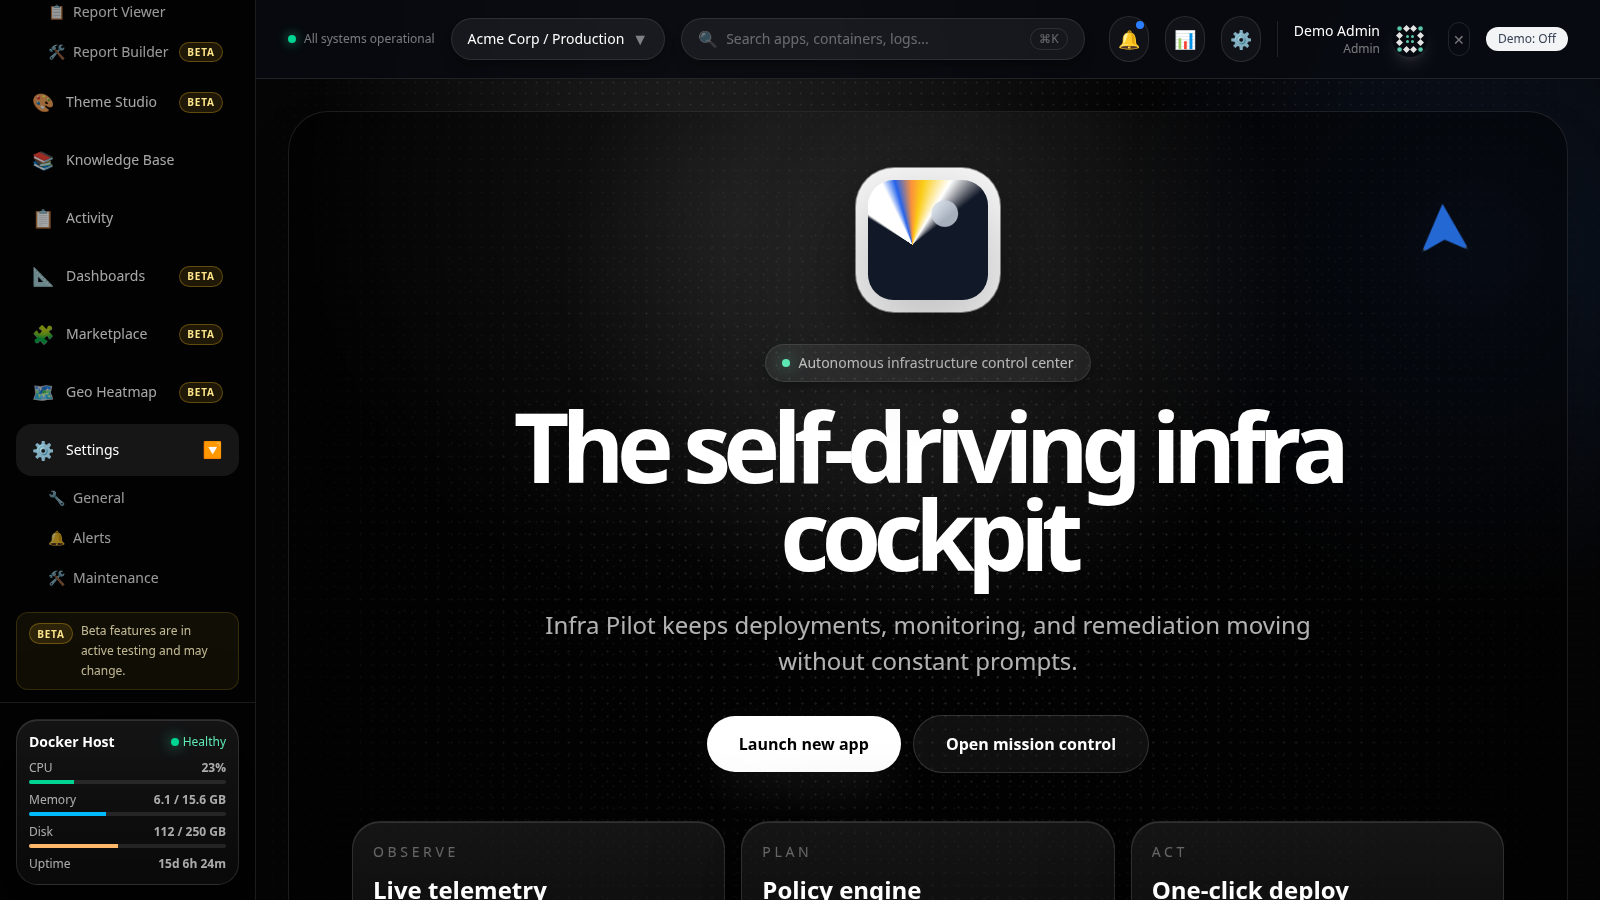
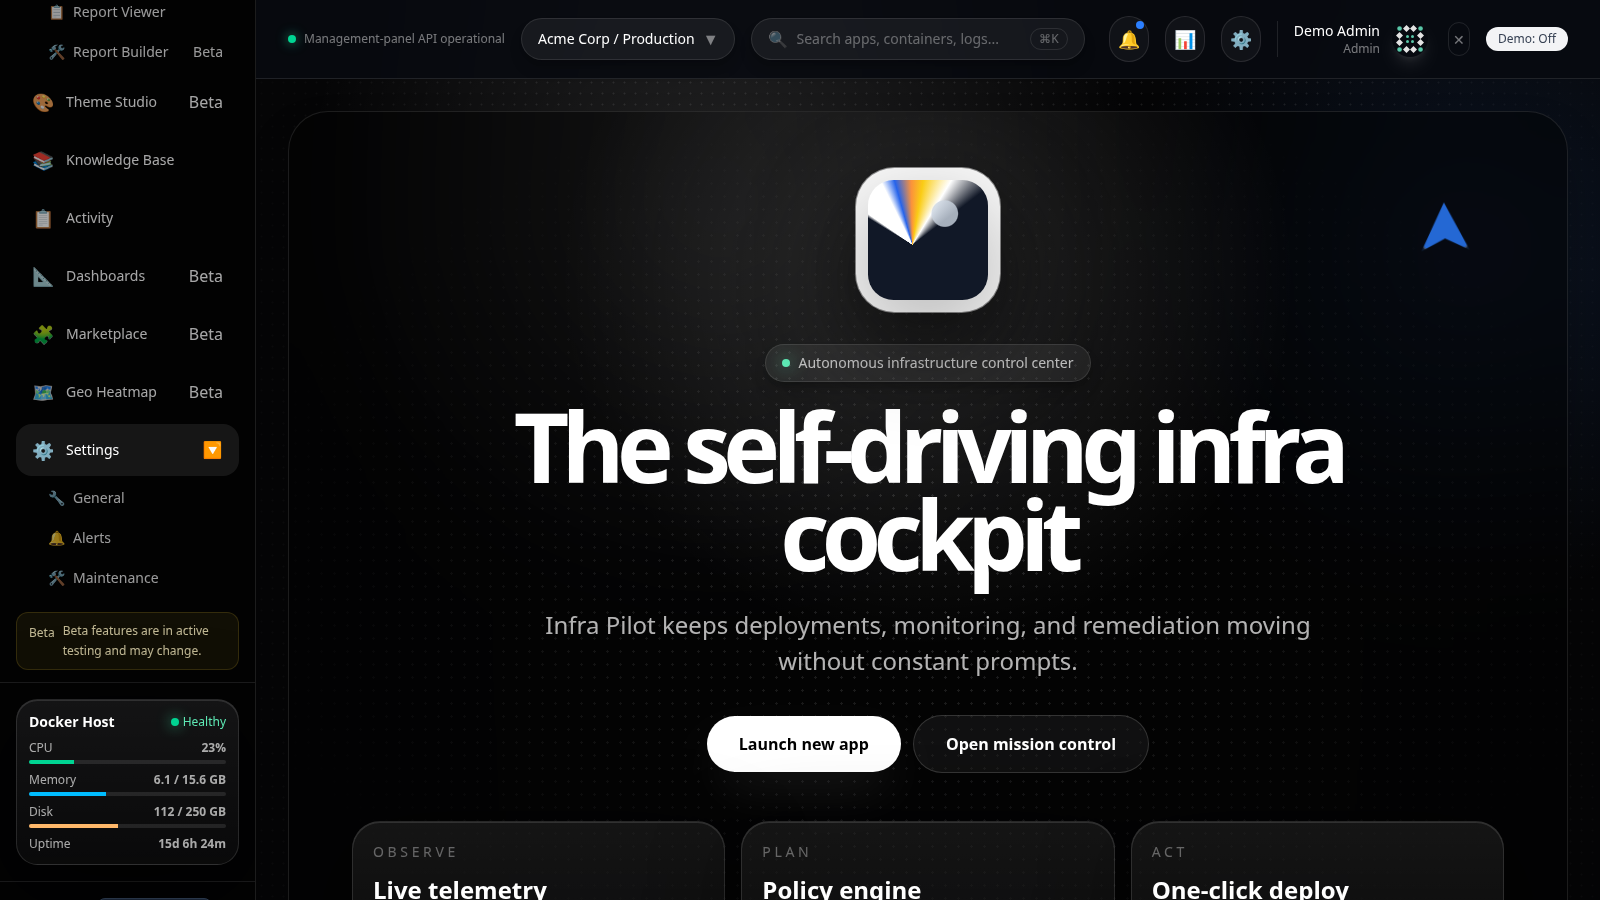
Feat/panel deployments stable (#437)
* feat(panel): add Deployments page and route

* feat(panel): graduate Deployments out of beta

* test(panel): cover deployments API contract

* docs(panel): document Deployments and capture plan

* docs(screenshots): regenerate captures incl. Deployments

* fix(panel): drop duplicate rateLimit import

* docs(panel): Document the deployment Supabase test helper

* fix(panel): use configured public URL for Git deployment webhooks

---------

diff --git a/services/management-panel/tests/integration/deployments.test.ts b/services/management-panel/tests/integration/deployments.test.ts
@@ -1,0 +1,130 @@
+import assert from 'node:assert/strict';
+import { after, before, beforeEach, describe, it } from 'node:test';
+import http from 'node:http';
+import { app, setSupabaseClientForTests } from '../../server/index.ts';
+import { makeSupabase } from '../helpers/supabase-mock.ts';
+import type { Db } from '../helpers/supabase-mock.ts';
+import { request } from '../helpers/http-client.ts';
+
+const USERS = {
+  token: { id: 'user-1', email: 'user1@example.test' },
+  'other-token': { id: 'user-2', email: 'user2@example.test' },
+};
+
+/**
+ * Create a Supabase test client with shared_config upserts for deployment storage.
+ * @param db - In-memory database mutated by upserts, matching rows by key.
+ * @returns Mock client authenticated with USERS and supporting shared_config upserts.
+ */
+function makeDeploySupabase(db: Db) {
+  const supabase: any = makeSupabase(db, USERS);
+  const origFrom = supabase.from.bind(supabase);
+  supabase.from = (table: string) => {
+    const qb: any = origFrom(table);
+    if (table === 'shared_config' && typeof qb.upsert !== 'function') {
+      qb.upsert = (row: Record<string, any>) => ({
+        then: (resolve: (v: any) => void, reject?: (r?: any) => void) => {
+          db.shared_config ??= [];
+          const idx = db.shared_config.findIndex((r) => r.key === row.key);
+          if (idx >= 0) db.shared_config[idx] = { ...db.shared_config[idx], ...row };
+          else db.shared_config.push({ ...row });
+          return Promise.resolve({ data: row, error: null }).then(resolve, reject);
+        },
+      });
+    }
+    return qb;
+  };
+  return supabase;
+}
+
+describe('deployments API contract', () => {
+  let server: http.Server;
+  let db: Db;
+
+  before(async () => {
+    server = app.listen(0);
+  });
+
+  after(async () => {
+    await new Promise<void>((resolve) => server.close(() => resolve()));
+  });
+
+  beforeEach(() => {
+    db = {
+      setup_config: [{ id: 'setup', initialized: true, mode: 'personal' }],
+      shared_config: [],
+      audit_log: [],
+    };
+    setSupabaseClientForTests(makeDeploySupabase(db));
+  });
+
+  it('requires auth to list deployments', async () => {
+    const response = await request(server, 'GET', '/api/deployments');
+    assert.equal(response.status, 401);
+  });
+
+  it('validates required fields on create', async () => {
+    for (const body of [{}, { name: 'only-name' }, { repoUrl: 'https://github.com/a/b.git' }]) {
+      const response = await request(server, 'POST', '/api/deployments', body, 'token');
+      assert.equal(response.status, 400, `should reject ${JSON.stringify(body)}`);
+    }
+  });
+
+  it('creates, lists, and isolates deployments by owner', async () => {
+    const created = await request(
+      server,
+      'POST',
+      '/api/deployments',
+      { name: 'web', repoUrl: 'https://github.com/acme/web.git', branch: 'main' },
+      'token',
+    );
+    assert.equal(created.status, 201);
+    assert.equal(created.body.name, 'web');
+    assert.equal(created.body.repo, 'acme/web');
+    assert.equal(created.body.enabled, true);
+    assert.ok(created.body.id);
+
+    const listed = await request(server, 'GET', '/api/deployments', undefined, 'token');
+    assert.equal(listed.status, 200);
+    assert.equal(listed.body.length, 1);
+
+    const other = await request(server, 'GET', '/api/deployments', undefined, 'other-token');
+    assert.equal(other.status, 200);
+    assert.deepEqual(other.body, []);
+  });
+
+  it('toggles, reads history, and deletes owned deployments', async () => {
+    const created = await request(
+      server,
+      'POST',
+      '/api/deployments',
+      { name: 'api', repoUrl: 'https://github.com/acme/api.git' },
+      'token',
+    );
+    const id = created.body.id as string;
+
+    const toggled = await request(server, 'PATCH', `/api/deployments/${id}/toggle`, {}, 'token');
+    assert.equal(toggled.status, 200);
+    assert.equal(toggled.body.enabled, false);
+
+    const history = await request(server, 'GET', `/api/deployments/${id}/history`, undefined, 'token');
+    assert.equal(history.status, 200);
+    assert.deepEqual(history.body, { history: [] });
+
+    const otherToggle = await request(server, 'PATCH', `/api/deployments/${id}/toggle`, {}, 'other-token');
+    assert.equal(otherToggle.status, 404);
+
+    const deleted = await request(server, 'DELETE', `/api/deployments/${id}`, undefined, 'token');
+    assert.equal(deleted.status, 200);
+
+    const listed = await request(server, 'GET', '/api/deployments', undefined, 'token');
+    assert.deepEqual(listed.body, []);
+  });
+
+  it('returns 404 for unknown deployment ids', async () => {
+    const history = await request(server, 'GET', '/api/deployments/missing/history', undefined, 'token');
+    assert.equal(history.status, 404);
+    const deleted = await request(server, 'DELETE', '/api/deployments/missing', undefined, 'token');
+    assert.equal(deleted.status, 404);
+  });
+});

diff --git a/services/management-panel/src/components/GitDeployManager.tsx b/services/management-panel/src/components/GitDeployManager.tsx
@@ -44,13 +44,43 @@ export const GitDeployManager = () => {
     setShowForm(false);
   };
 
+  const isValidRepoUrl = (url: string) => {
+    const trimmed = url.trim();
+    return (
+      trimmed.startsWith('https://') ||
+      trimmed.startsWith('http://') ||
+      trimmed.startsWith('git@')
+    ) && trimmed.includes('.') && trimmed.length >= 10;
+  };
+
+  const getWebhookUrl = () => {
+    return import.meta.env.VITE_PUBLIC_WEBHOOK_URL?.trim() || '';
+  };
+
+  const copyWebhookUrl = async () => {
+    const webhookUrl = getWebhookUrl();
+    if (!webhookUrl) return;
+    try {
+      await navigator.clipboard.writeText(webhookUrl);
+      toast.success('Webhook URL copied');
+    } catch {
+      toast.error('Copy failed — select the URL manually');
+    }
+  };
+
   const handleCreate = async () => {
-    if (!form.name || !form.repoUrl) {
+    const name = form.name.trim();
+    const repoUrl = form.repoUrl.trim();
+    if (!name || !repoUrl) {
       toast.error('Name and repository URL are required');
       return;
     }
+    if (!isValidRepoUrl(repoUrl)) {
+      toast.error('Repository URL must start with https://, http://, or git@');
+      return;
+    }
     try {
-      await apiClient.createDeployment(form);
+      await apiClient.createDeployment({ ...form, name, repoUrl });
       toast.success('Git deployment created');
       resetForm();
       loadDeployments();
@@ -193,6 +223,8 @@ export const GitDeployManager = () => {
                   <div className="flex items-center gap-2">
                     <button
                       onClick={(e) => { e.stopPropagation(); handleToggle(dep.id); }}
+                      aria-label={dep.enabled ? `Disable ${dep.name}` : `Enable ${dep.name}`}
+                      title={dep.enabled ? 'Disable auto-deploy' : 'Enable auto-deploy'}
                       className={`text-sm px-2 py-0.5 rounded-full cursor-pointer transition-colors ${
                         dep.enabled ? 'bg-green-500/20 text-green-400 hover:bg-green-500/30' : 'bg-slate-600/20 text-slate-400 hover:bg-slate-600/30'
                       }`}
@@ -212,6 +244,7 @@ export const GitDeployManager = () => {
                 <div className="flex items-center gap-2 ml-3" onClick={(e) => e.stopPropagation()}>
                   <button
                     onClick={() => handleDelete(dep.id)}
+                    aria-label={`Delete ${dep.name}`}
                     className="px-2 py-1 text-xs bg-red-600/20 text-red-400 hover:bg-red-600/40 rounded transition-colors"
                   >
                     Delete
@@ -235,9 +268,19 @@ export const GitDeployManager = () => {
             </button>
           </div>
           <div className="space-y-2 text-sm">
-            <div className="flex justify-between">
+            <div className="flex justify-between items-center gap-2">
               <span className="text-slate-400">Webhook URL:</span>
-              <span className="text-green-400 font-mono text-xs break-all ml-2">http://your-host:8500/webhook/gitops</span>
+              <span className="flex items-center gap-2 min-w-0">
+                <span className="text-green-400 font-mono text-xs break-all text-right">{getWebhookUrl() || 'Webhook URL not configured'}</span>
+                <button
+                  onClick={copyWebhookUrl}
+                  disabled={!getWebhookUrl()}
+                  aria-label="Copy webhook URL"
+                  className="shrink-0 px-2 py-0.5 text-xs bg-slate-700 hover:bg-slate-600 text-slate-200 rounded transition-colors"
+                >
+                  Copy
+                </button>
+              </span>
             </div>
             <div className="flex justify-between">
               <span className="text-slate-400">Auth:</span>

diff --git a/services/management-panel/src/App.tsx b/services/management-panel/src/App.tsx
@@ -14,6 +14,7 @@ import { AppDetail } from './pages/AppDetail';
 import { Monitoring } from './pages/Monitoring';
 import { AccessLogs } from './pages/AccessLogs';
 import { Backups } from './pages/Backups';
+import { Deployments } from './pages/Deployments';
 import { Reports } from './pages/Reports';
 import { SettingsPage } from './pages/Settings';
 import { AuditLog } from './pages/AuditLog';
@@ -175,6 +176,7 @@ export default function App() {
                       <Route path="/apps/:appId/edit" element={<AppForm />} />
                       <Route path="/logs/access" element={<AccessLogs />} />
                       <Route path="/backups" element={<Backups />} />
+                      <Route path="/deployments" element={<Deployments />} />
                       <Route path="/reports" element={<Reports />} />
                       <Route path="/audit" element={<AuditLog />} />
                       <Route path="/activity" element={<ActivityFeed limit={50} />} />

diff --git a/services/management-panel/src/pages/Deployments.tsx b/services/management-panel/src/pages/Deployments.tsx
@@ -1,0 +1,20 @@
+import { GitDeployManager } from '../components/GitDeployManager';
+import { PageHeader } from '../components/PageHeader';
+
+export const Deployments = () => {
+  return (
+    <div className="space-y-8">
+      <PageHeader eyebrow="Ship">
+        <h1 className="text-3xl font-bold text-white mb-2">Deployments</h1>
+        <p className="text-slate-400">
+          Connect Git repositories to containers. Pushes deploy through the
+          GitOps webhook with per-deployment history and enable/disable control.
+        </p>
+      </PageHeader>
+
+      <GitDeployManager />
+    </div>
+  );
+};
+
+export default Deployments;

diff --git a/services/management-panel/server/index.ts b/services/management-panel/server/index.ts
@@ -50,7 +50,6 @@ function runCommand(command: string, args: string[]): Promise<{ stdout: string; 
   });
 }
 import os from 'os';
-import rateLimit from 'express-rate-limit';
 import { WebSocketServer, WebSocket } from 'ws';
 import { SERVER_PRESETS } from './presets.ts';
 import openapiSpec from './openapi.ts';

diff --git a/services/management-panel/src/components/Sidebar.tsx b/services/management-panel/src/components/Sidebar.tsx
@@ -80,7 +80,6 @@ export const Sidebar = ({
       label: "Deployments",
       icon: "🚀",
       route: "/deployments",
-      beta: true,
     },
     {
       id: "logs",

diff --git a/services/management-panel/README.md b/services/management-panel/README.md
@@ -12,8 +12,8 @@ Illustrations of the intended UI, not captures of a running release:
 See the root README's [Screenshots section](../../README.md#screenshots) for
 the Dashboard and Monitoring previews.
 
-Full set: dashboard, monitoring, applications, backups, and CLI/GitOps,
-plus an animated `tour.gif`. Regeneration instructions live in
+Full set: dashboard, monitoring, applications, backups, CLI/GitOps, and
+deployments, plus an animated `tour.gif`. Regeneration instructions live in
 `docs/screenshots/README.md`.
 
 ## Start locally
@@ -52,6 +52,7 @@ Copy `.env.example` to `.env.local` for standalone development. The root `.env.e
 | --- | --- |
 | `PORT` | Backend listener (default `3001`). |
 | `VITE_API_URL`, `VITE_ENVIRONMENT` | Frontend API target and environment label. |
+| `VITE_PUBLIC_WEBHOOK_URL` | Full public HTTPS webhook URL shown and copied in Git Deployments. |
 | `DATABASE_URL`, `REDIS_URL` | Backend service connections. |
 | `CORS_ORIGINS` | Comma-separated permitted browser origins. |
 | `VITE_SUPABASE_URL`, `VITE_SUPABASE_ANON_KEY` | Optional hosted-feature configuration. |
@@ -65,6 +66,48 @@ Copy `.env.example` to `.env.local` for standalone development. The root `.env.e
 | `server/openapi.ts` | Panel OpenAPI specification. |
 | `server/*.ts` | Focused backend helpers such as reports, GraphQL, assistant, doctor, and audit sanitisation. |
 | `docs/` | Longer-lived design and setup notes. |
+
+## Deployments
+
+Stable panel page at `/deployments` (no beta badge). Connects Git
+repositories to containers for GitOps auto-deploy:
+
+- Create a deployment with name, repository URL (`https://`, `http://`,
+  or `git@`), branch, target container, target directory, and optional
+  install/restart commands. Invalid URLs are rejected with a toast.
+- Enable/disable auto-deploy per deployment; delete with confirmation.
+- Select a deployment to see its webhook URL (with copy button),
+  HMAC auth note (`GITOPS_WEBHOOK_TOKEN` over `X-Timestamp` + body),
+  repository/branch/target details, and push history.
+- Every action maps to the panel API below; failures surface as toasts
+  and the list reloads from the server.
+
+| Method | Path | Purpose |
+| --- | --- | --- |
+| `GET` | `/api/deployments` | List the caller's deployments. |
+| `POST` | `/api/deployments` | Create (`name` + `repoUrl` required). |
+| `PATCH` | `/api/deployments/:id/toggle` | Flip `enabled`. |
+| `GET` | `/api/deployments/:id/history` | Push history for one deployment. |
+| `DELETE` | `/api/deployments/:id` | Remove a deployment. |
+
+Pushes arrive via the orchestrator's `POST /webhook/gitops`
+(see the root README's GitOps example and `wiki/08-Security.md`).
+
+Set `VITE_PUBLIC_WEBHOOK_URL` to the HTTPS ingress host and public webhook
+route for your deployment. With the example Helm ingress, this is
+`https://api.infra-pilot.example.com/webhook/gitops`; replace the host with
+your configured ingress host and include any public path prefix. The panel
+shows this URL verbatim (after trimming whitespace). If unset, it shows
+"Webhook URL not configured" and disables Copy.
+
+Vite embeds this setting at build time. Set it in `.env.local` before
+starting Vite or building the standalone panel. For production Compose, set it in
+the root `.env` and rebuild the panel with
+`docker compose -f docker-compose.yml build management-panel`, then recreate
+its container with `docker compose -f docker-compose.yml up -d management-panel`.
+For a direct Docker build, pass `--build-arg VITE_PUBLIC_WEBHOOK_URL=<url>`.
+Changing only the environment of a production container does not update
+the built frontend.
 
 ## Development checks
 

diff --git a/docs/screenshots/README.md b/docs/screenshots/README.md
@@ -16,7 +16,8 @@ in the images.
 | `03-applications.png` | verified | `/apps/:id` (shop-api detail), self-contained demo capture v0.1.0 | 2026-10-01 |
 | `04-backups.png` | verified | `/backups`, self-contained demo capture v0.1.0 | 2026-10-01 |
 | `05-cli-gitops.png` | verified | `/settings`, self-contained demo capture v0.1.0 | 2026-10-01 |
-| `tour.gif` | verified | generated from the five current captures | 2026-10-01 |
+| `06-deployments.png` | verified | `/deployments`, self-contained demo capture v0.1.0 | 2026-10-11 |
+| `tour.gif` | verified | generated from the six current captures | 2026-10-11 |
 
 Promoting a file to `verified` requires a browser capture via
 `scripts/capture-screenshots.mjs`, plus version, date, and environment filled
@@ -34,7 +35,8 @@ workflow beats five more concepts.
 | `03-applications.png` | App detail with status and ports | Matches `src/pages/AppDetail.tsx` |
 | `04-backups.png` | Retention stats and demo backup jobs | Matches `src/pages/Backups.tsx` |
 | `05-cli-gitops.png` | Settings (general, 2FA, metrics) | Matches `src/pages/Settings.tsx` |
-| `tour.gif` | Rotating tour of the current UI captures | Generated from current PNGs, 800x450, under 500 KB |
+| `06-deployments.png` | Git deployments with demo repos | Matches `src/pages/Deployments.tsx` |
+| `tour.gif` | Rotating tour of the current UI captures | Generated from current PNGs, 800x450, under 1 MB |
 
 All PNG images are `1600x900`. The tour GIF is generated from the current captures and kept small
 enough to pass the `check-added-large-files` hook.
@@ -57,7 +59,7 @@ npm install --legacy-peer-deps
 npx playwright install chromium
 npm run dev:frontend &
 node ../../scripts/capture-screenshots.mjs
-python3 -c "from PIL import Image; from pathlib import Path; p=Path('../../docs/screenshots'); f=[Image.open(p / n).convert('RGB').resize((800, 450)).convert('P', palette=Image.Palette.ADAPTIVE) for n in ['01-dashboard.png', '02-monitoring.png', '03-applications.png', '04-backups.png', '05-cli-gitops.png']]; f[0].save(p / 'tour.gif', save_all=True, append_images=f[1:], duration=1800, loop=0, optimize=True)"
+python3 -c "from PIL import Image; from pathlib import Path; p=Path('../../docs/screenshots'); f=[Image.open(p / n).convert('RGB').resize((800, 450)).convert('P', palette=Image.Palette.ADAPTIVE) for n in ['01-dashboard.png', '02-monitoring.png', '03-applications.png', '04-backups.png', '05-cli-gitops.png', '06-deployments.png']]; f[0].save(p / 'tour.gif', save_all=True, append_images=f[1:], duration=1800, loop=0, optimize=True)"
 ```
 
 The script navigates the local panel with intercepted demo responses and
@@ -68,7 +70,7 @@ captures. Review diffs before committing; mask secrets and personal data.
 
 ## Contribution rules
 
-- Keep the same five filenames and dimensions.
+- Keep the same six filenames and dimensions.
 - Update this README when views change materially.
 - Do not commit screenshots with secrets, tokens, or
   personal data.

diff --git a/README.md b/README.md
@@ -72,7 +72,8 @@ you already own.
 
 > Status: real captures from a running demo stack (panel v0.1.0,
 > captured 2026-09-28, logged in as demo admin with seeded demo data:
-> 3 apps, metrics, backup jobs). No real hostnames or secrets; see
+> 3 apps, metrics, backup jobs; Deployments capture added 2026-10-11).
+> No real hostnames or secrets; see
 > [docs/screenshots](./docs/screenshots) for the capture log and
 > regeneration instructions.
 
@@ -86,10 +87,10 @@ you already own.
 | ![Applications](./docs/screenshots/03-applications.png) | ![Backups](./docs/screenshots/04-backups.png) |
 | Status, resources, uptime, and ports per app. | Retention stats and recent runs. |
 
-| Settings |
-| --- |
-| ![Settings](./docs/screenshots/05-cli-gitops.png) |
-| General settings, 2FA (TOTP + backup codes), and metrics integration. |
+| Settings | Deployments |
+| --- | --- |
+| ![Settings](./docs/screenshots/05-cli-gitops.png) | ![Deployments](./docs/screenshots/06-deployments.png) |
+| General settings, 2FA (TOTP + backup codes), and metrics integration. | Git deployments: repos, branches, enable/disable, and push history. |
 | Auth apps: Google/Microsoft Authenticator, Authy, 1Password, Bitwarden, Aegis, andOTP. Details: [wiki/14-Two-Factor-Auth](./wiki/14-Two-Factor-Auth.md). |
 
 ---
